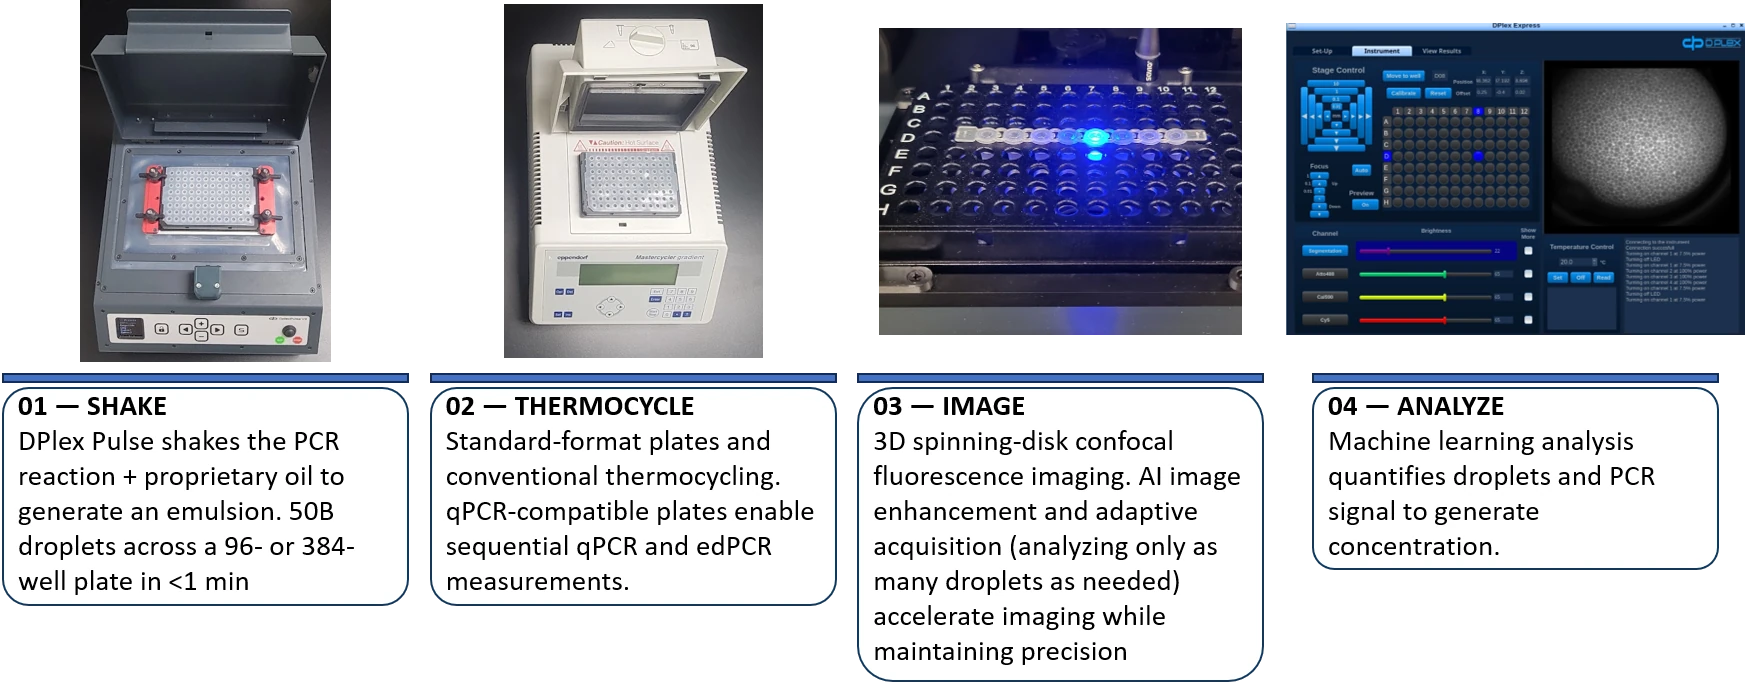
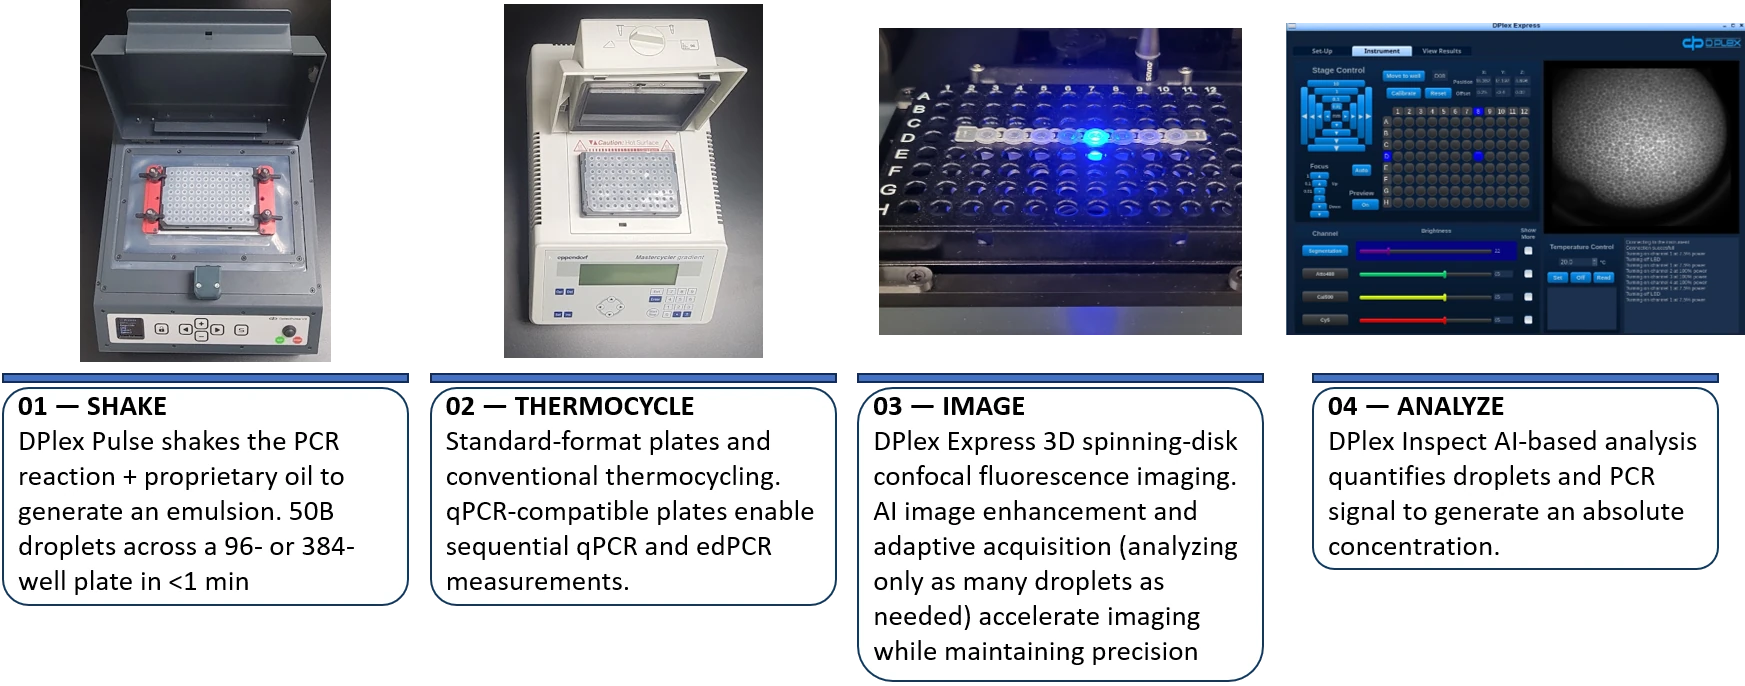
workflow and capitalization fixes

diff --git a/index3.html b/index3.html
@@ -24,7 +24,7 @@ noindex: true
   <header class="hero part" id="home">
     <div class="wrap hero__grid">
       <div>
-        <p class="eyebrow">Emulsion digital PCR (edPCR)</p>
+        <p class="eyebrow">Emulsion digital PCR (<span class="term">edPCR</span>)</p>
         <h1>AI-scaled<br>digital PCR</h1>
         <p class="lead">Bringing digital PCR precision to high-throughput molecular testing.</p>
         <p>DPlexBio’s emulsion digital PCR (edPCR) combines simple emulsion generation, 3D fluorescence imaging, and AI-powered analysis to enable absolute nucleic acid quantitation without complex and expensive microfluidic partitioning.</p>
@@ -49,7 +49,7 @@ noindex: true
             <p class="compare__idea">Scaling depends on precision-manufactured physical components.</p>
           </div>
           <div>
-            <p class="compare__label compare__label--accent">DPlexBio edPCR</p>
+            <p class="compare__label compare__label--accent">DPlexBio <span class="term">edPCR</span></p>
             <h3>Precision is built into the measurement.</h3>
             <p>Simple shaking creates variable-volume droplets that are measured by 3D imaging and AI analysis.</p>
             <p class="compare__idea">Scaling shifts toward imaging, software and computation.</p>
@@ -73,7 +73,7 @@ noindex: true
     <section class="dark" id="video-overview">
       <div class="wrap split">
         <div>
-          <p class="kicker">See edPCR in action</p>
+          <p class="kicker">See <span class="term">edPCR</span> in action</p>
           <h2>Digital PCR, simplified</h2>
           <p class="sub">From a quick shake to absolute nucleic acid quantitation. Explore how DPlexBio combines emulsion generation, 3D fluorescence imaging, and computational analysis in one streamlined workflow.</p>
         </div>
@@ -110,7 +110,7 @@ noindex: true
     <section>
       <div class="wrap">
         <div class="center">
-          <p class="kicker">Why edPCR</p>
+          <p class="kicker">Why <span class="term">edPCR</span></p>
           <h2>Digital PCR performance. qPCR-like workflow.</h2>
         </div>
         <div class="cards cards--4">

diff --git a/assets/css/onepage.css b/assets/css/onepage.css
@@ -48,6 +48,7 @@ section { padding: 96px 0; }
   color: var(--blue);
   margin-bottom: 12px;
 }
+.term { text-transform: none; }
 .sub { font-size: 18px; color: var(--muted); }
 .lead { font-size: 23px; color: #354b61; }
 .small { font-size: 14px; color: var(--muted); }
